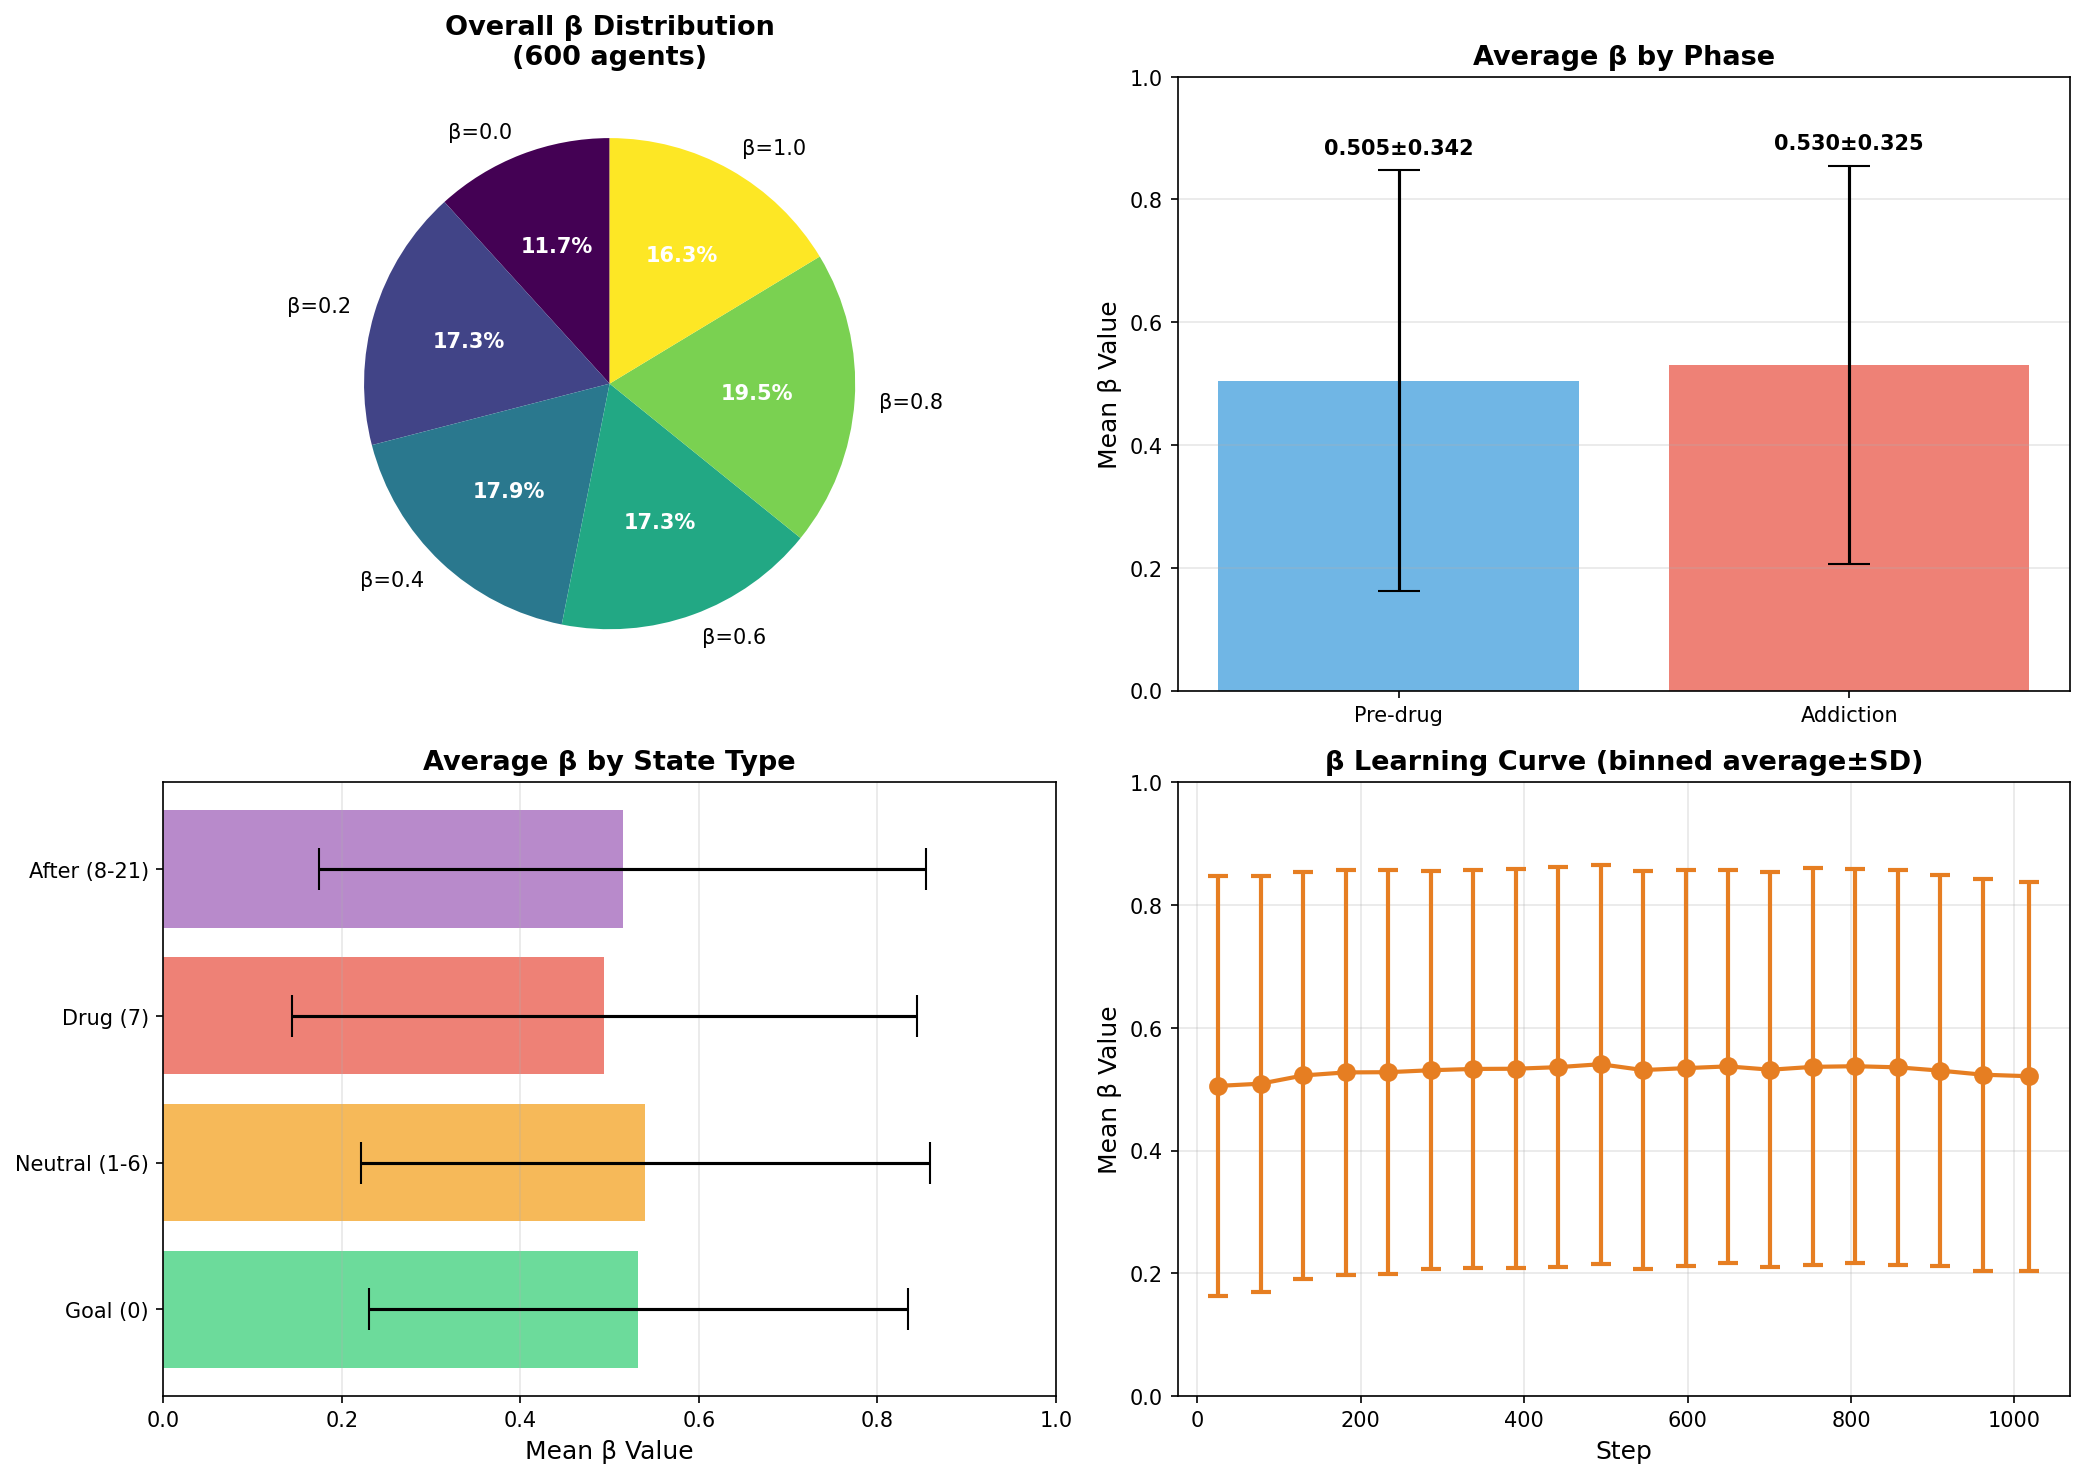
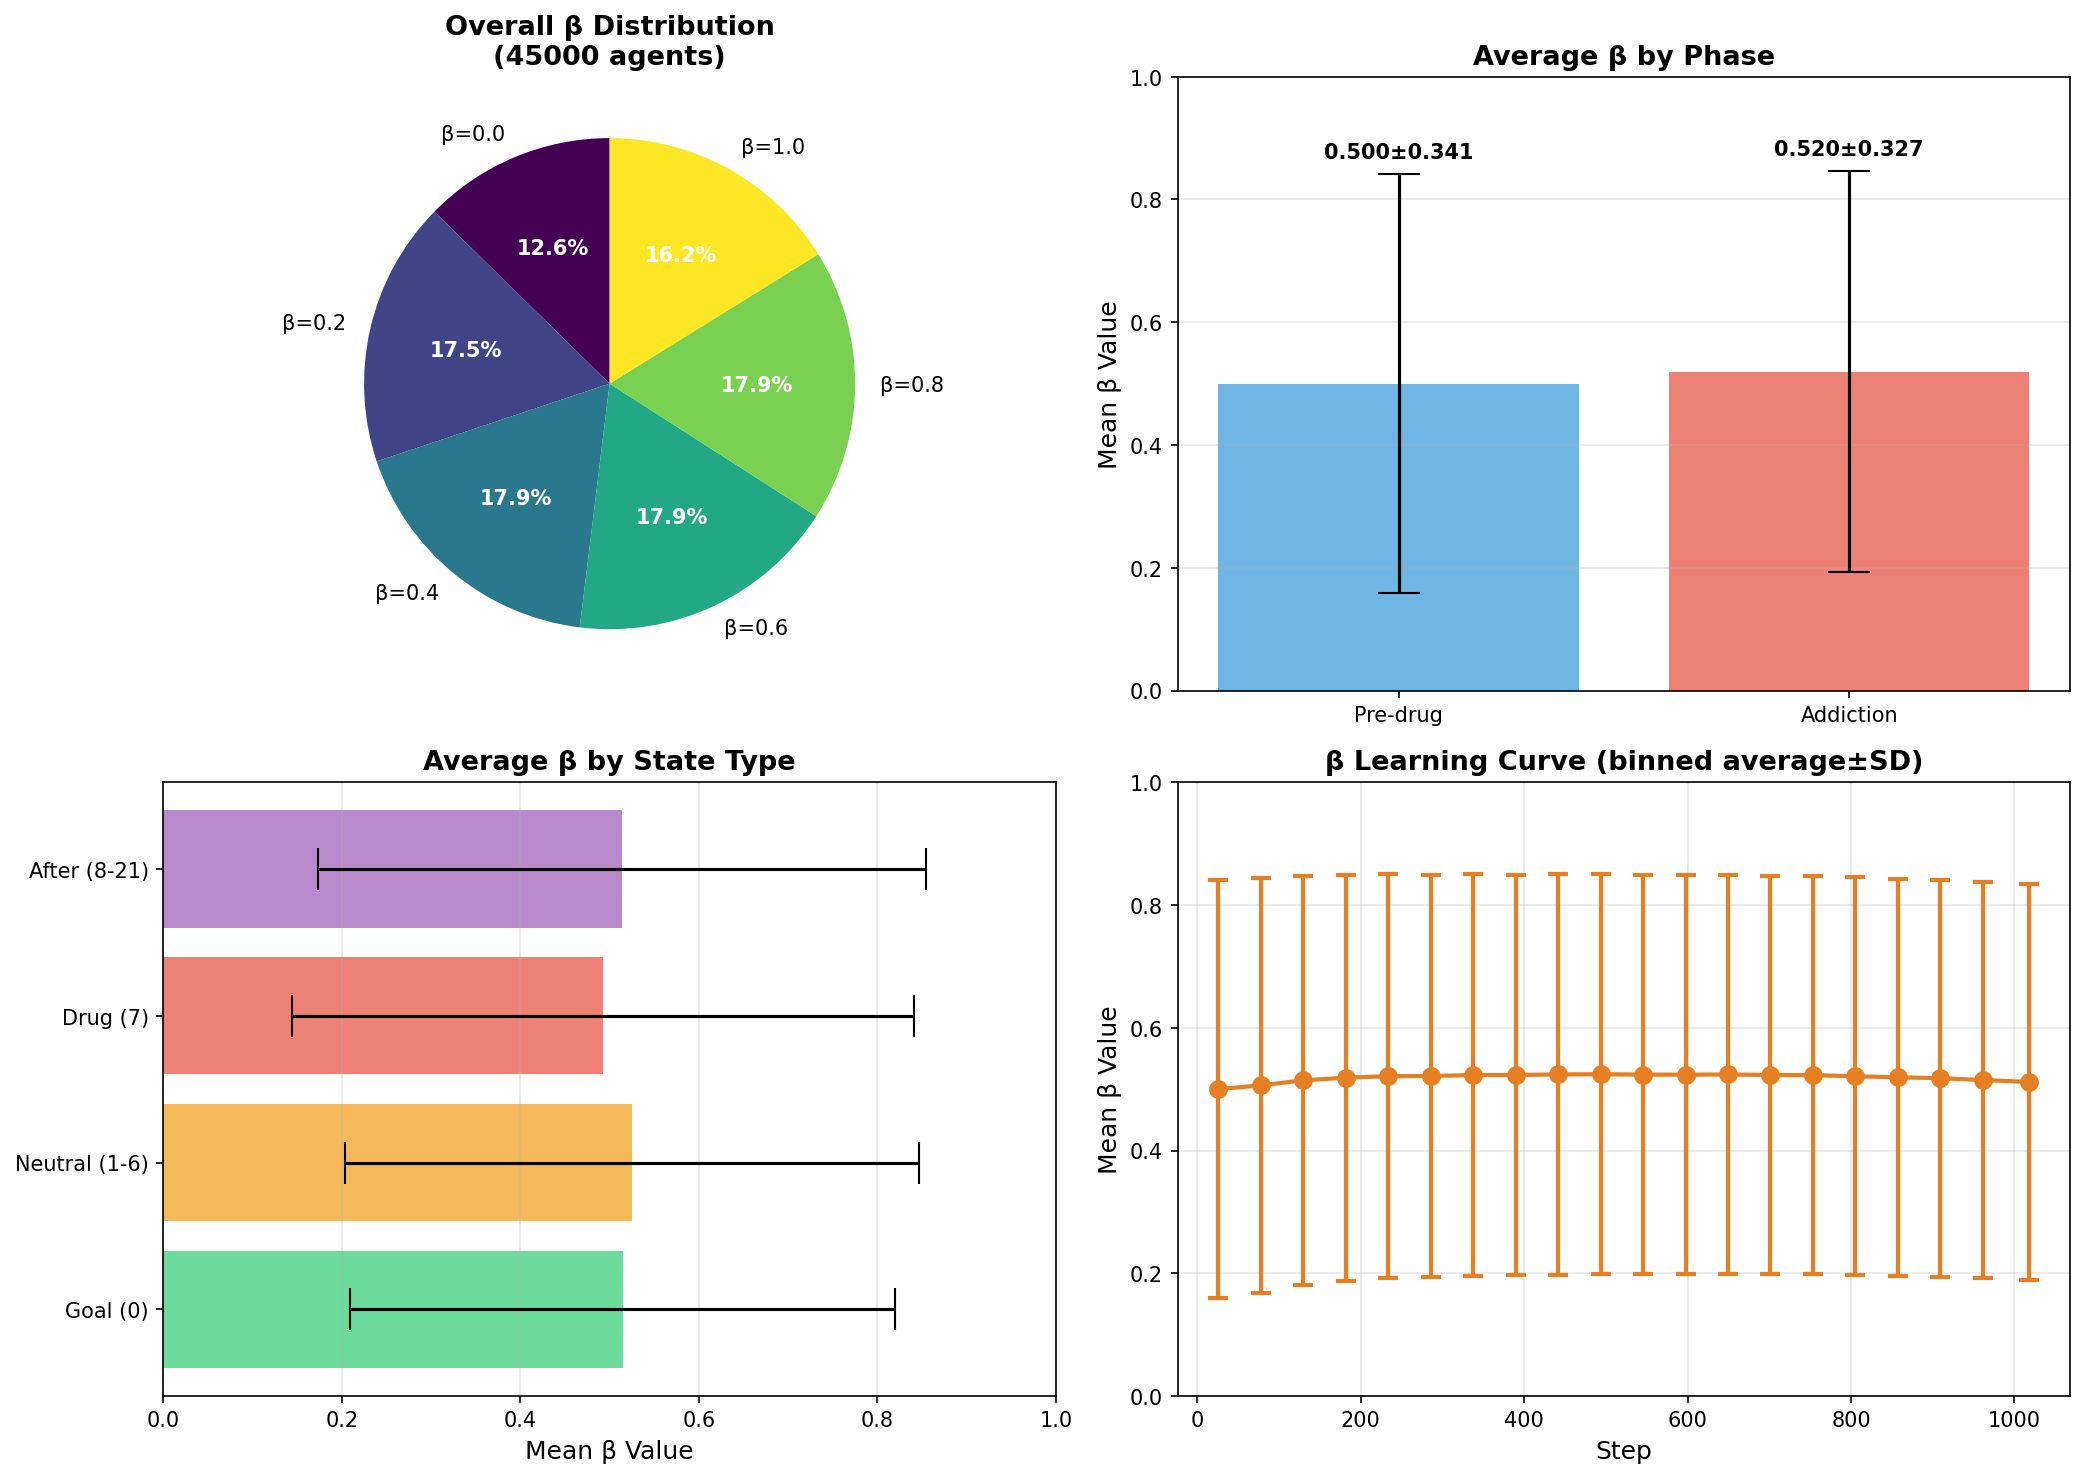
グラフ追加

diff --git a/addiction_rl_sim.py b/addiction_rl_sim.py
@@ -1349,6 +1349,85 @@ def plot_beta_analysis(beta_stats: BetaStatistics, output_prefix: str = "beta_an
         plt.savefig(f"{output_prefix}_detailed_analysis.png", dpi=150, bbox_inches='tight')
         print(f"Saved: {output_prefix}_detailed_analysis.png")
         plt.close()
+        
+        # ===== Figure 7: 依存/非依存エージェントのβ選択推移（各β値の使用率の時系列） =====
+        fig7, axes7 = plt.subplots(2, 1, figsize=(16, 10))
+        
+        # 各時刻での各β値の使用頻度を計算
+        # Addicted group
+        beta_freq_add_over_time = np.zeros((len(BETA_VALUES), len(step_array)))
+        for agent_idx, is_addicted in enumerate(addiction_array):
+            if is_addicted:
+                for t_idx, beta_val in enumerate(beta_matrix[agent_idx]):
+                    beta_idx = np.argmin(np.abs(BETA_VALUES - beta_val))
+                    beta_freq_add_over_time[beta_idx, t_idx] += 1
+        
+        # 正規化（各時刻での割合に変換）
+        n_addicted_agents = np.sum(addiction_array)
+        if n_addicted_agents > 0:
+            beta_freq_add_over_time = beta_freq_add_over_time / n_addicted_agents * 100
+        
+        # Non-addicted group
+        beta_freq_non_over_time = np.zeros((len(BETA_VALUES), len(step_array)))
+        for agent_idx, is_addicted in enumerate(addiction_array):
+            if not is_addicted:
+                for t_idx, beta_val in enumerate(beta_matrix[agent_idx]):
+                    beta_idx = np.argmin(np.abs(BETA_VALUES - beta_val))
+                    beta_freq_non_over_time[beta_idx, t_idx] += 1
+        
+        # 正規化
+        n_non_addicted_agents = len(addiction_array) - n_addicted_agents
+        if n_non_addicted_agents > 0:
+            beta_freq_non_over_time = beta_freq_non_over_time / n_non_addicted_agents * 100
+        
+        # Addicted群のプロット
+        ax7_1 = axes7[0]
+        colors_beta = plt.cm.viridis(np.linspace(0, 1, len(BETA_VALUES)))
+        
+        for beta_idx, beta_val in enumerate(BETA_VALUES):
+            ax7_1.plot(step_array, beta_freq_add_over_time[beta_idx], 
+                      label=f'β={beta_val:.1f}', linewidth=2, 
+                      color=colors_beta[beta_idx], alpha=0.8)
+        
+        # フェーズ境界
+        phase_boundary = np.where(np.diff(phase_mean) != 0)[0]
+        for boundary in phase_boundary:
+            ax7_1.axvline(step_array[boundary], color='red', linestyle='--', 
+                         linewidth=2, alpha=0.7, label='Phase Transition' if boundary == phase_boundary[0] else '')
+        
+        ax7_1.set_xlabel('Step', fontsize=12)
+        ax7_1.set_ylabel('Usage Rate (%)', fontsize=12)
+        ax7_1.set_title(f'β Selection Dynamics: Addicted Group (n={n_addicted_agents} agents)', 
+                       fontsize=14, fontweight='bold')
+        ax7_1.legend(loc='upper right', fontsize=10, ncol=2)
+        ax7_1.grid(True, alpha=0.3)
+        ax7_1.set_ylim(0, 35)
+        
+        # Non-addicted群のプロット
+        ax7_2 = axes7[1]
+        
+        for beta_idx, beta_val in enumerate(BETA_VALUES):
+            ax7_2.plot(step_array, beta_freq_non_over_time[beta_idx], 
+                      label=f'β={beta_val:.1f}', linewidth=2,
+                      color=colors_beta[beta_idx], alpha=0.8)
+        
+        # フェーズ境界
+        for boundary in phase_boundary:
+            ax7_2.axvline(step_array[boundary], color='red', linestyle='--',
+                         linewidth=2, alpha=0.7, label='Phase Transition' if boundary == phase_boundary[0] else '')
+        
+        ax7_2.set_xlabel('Step', fontsize=12)
+        ax7_2.set_ylabel('Usage Rate (%)', fontsize=12)
+        ax7_2.set_title(f'β Selection Dynamics: Non-addicted Group (n={n_non_addicted_agents} agents)', 
+                       fontsize=14, fontweight='bold')
+        ax7_2.legend(loc='upper right', fontsize=10, ncol=2)
+        ax7_2.grid(True, alpha=0.3)
+        ax7_2.set_ylim(0, 35)
+        
+        plt.tight_layout()
+        plt.savefig(f"{output_prefix}_beta_transition_comparison.png", dpi=150, bbox_inches='tight')
+        print(f"Saved: {output_prefix}_beta_transition_comparison.png")
+        plt.close()
     
     print("\n" + "="*60)
     print("β SELECTION STATISTICS")
@@ -1402,7 +1481,7 @@ def plot_beta_analysis(beta_stats: BetaStatistics, output_prefix: str = "beta_an
 def main():
     parser = argparse.ArgumentParser(description="Fast Hybrid RL Addiction Simulation with Beta Learning")
     parser.add_argument("--num-agents", type=int, default=900, help="Agents per seed")
-    parser.add_argument("--num-runs", type=int, default=1, help="Number of seeds")
+    parser.add_argument("--num-runs", type=int, default=50, help="Number of seeds")
     parser.add_argument("--seed", type=int, default=42, help="Base random seed")
     parser.add_argument(
         "--output",
